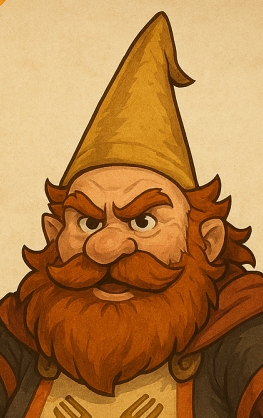
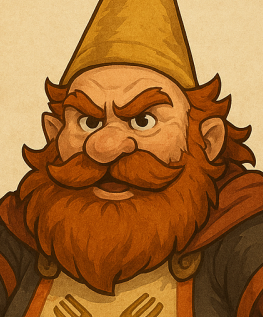
Update Image Sizing

diff --git a/assets/css/style.css b/assets/css/style.css
@@ -52,10 +52,13 @@ h1, h2, h3, h4, h5, h6 {
   width: 100%;
   height: 250px;
   object-fit: cover;
-  object-position: center;
-  display: block;
+  border-bottom: 3px solid #333;
+  transition: transform 0.2s ease-in-out;
 }
 
+.player-card:hover .player-avatar {
+  transform: scale(1.03);
+}
 .player-info {
   padding: 1rem;
   color: #f0f0f0;
